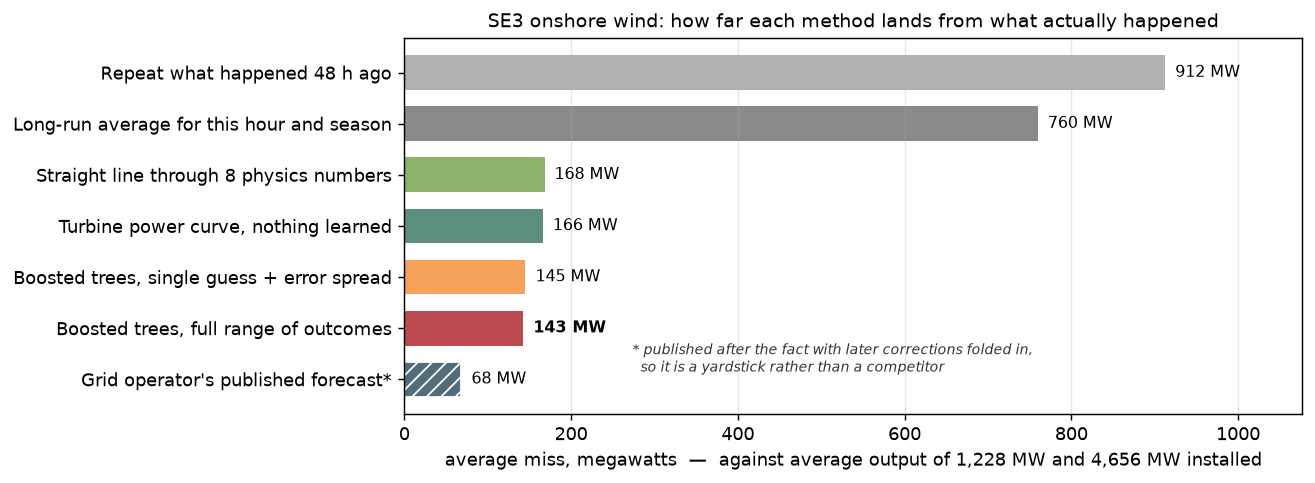
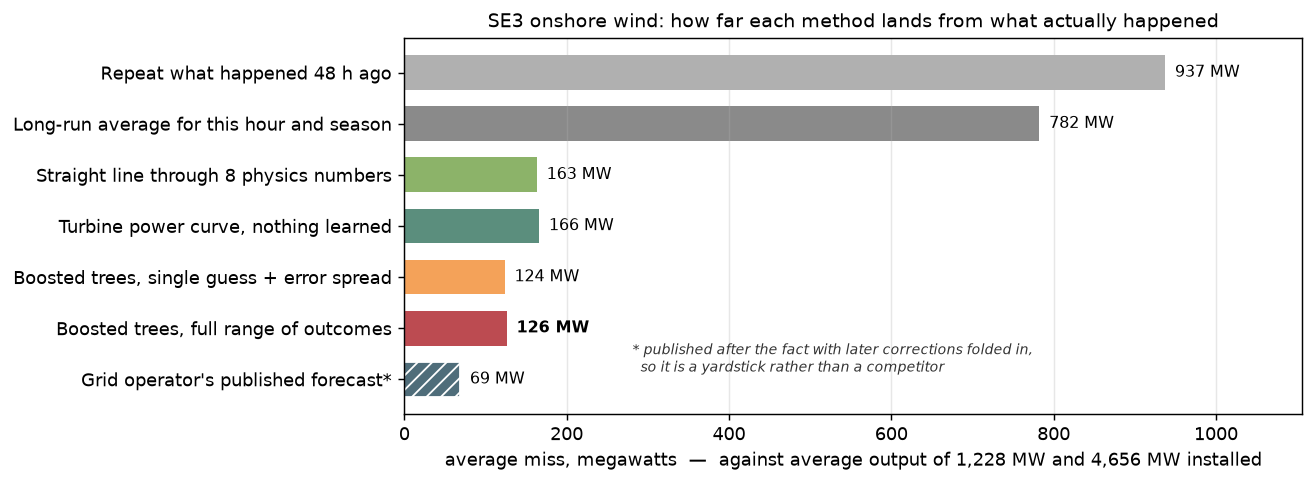
feat(research): ship run-addressed NWP in the live path and the leaderboard
features.run_addressed in base.yaml drives both paths. predict fetches (and so
self-archives) the issue day's MEPS and IFS 00z runs, trains only on days with
every configured source, and refuses to forecast if a live run is missing.
Leaderboard: lightgbm_quantile nMAE 0.0307 -> 0.0271 (143 -> 126 MW), CRPS
0.0232 -> 0.0205. Figures regenerated.

diff --git a/research/src/renewable_forecast/features/assemble.py b/research/src/renewable_forecast/features/assemble.py
@@ -240,15 +240,19 @@ def meps_block(points: pd.DataFrame) -> pd.DataFrame:
 IFS_TRAJECTORY = ("power_curve__ifsrun", "wind_speed_100m__ifsrun")
 
 
-def ifs_block(points: pd.DataFrame) -> pd.DataFrame:
+def ifs_block(
+    points: pd.DataFrame, run_hour: int = ifs_runs.RUN_HOUR_UTC
+) -> pd.DataFrame:
     """Zonal IFS HRES features keyed by the run that produced them.
 
     The physics is the Open-Meteo path's (`wind.per_point`), since the variables are
     the same; only the addressing differs, which is the point of the source.
     """
     raw = ifs_runs.load()
+    if not raw.empty:
+        raw = raw[pd.to_datetime(raw.run_time, utc=True).dt.hour == run_hour]
     if raw.empty:
-        msg = "no IFS runs parsed; run pipelines.pull_ifs_runs first"
+        msg = f"no {run_hour:02d}z IFS runs parsed; run pipelines.pull_ifs_runs first"
         raise RuntimeError(msg)
 
     per_point = wind.add_icing_memory(
@@ -272,8 +276,13 @@ def ifs_block(points: pd.DataFrame) -> pd.DataFrame:
     return pd.concat([zonal, trajectory], axis=1)
 
 
-def attach_ifs(frame: pd.DataFrame, points: pd.DataFrame) -> pd.DataFrame:
-    """Join the IFS run block on the issue day's 00z run, exactly as for MEPS."""
+def attach_ifs(
+    frame: pd.DataFrame, points: pd.DataFrame, *, lagged: bool = True
+) -> pd.DataFrame:
+    """Join the IFS run block on the issue day's 00z run, exactly as for MEPS.
+
+    With `lagged`, also the previous day's 18z run and the change between the two.
+    """
     block = ifs_block(points)
     frame = frame.copy()
     frame[IFS_RUN_COLUMN] = frame.issue_day.dt.tz_localize("UTC") + pd.Timedelta(
@@ -288,6 +297,43 @@ def attach_ifs(frame: pd.DataFrame, points: pd.DataFrame) -> pd.DataFrame:
     missing = merged[f"power_curve{IFS_MARKER}"].isna().sum()
     if missing:
         logger.warning("%s of %s rows have no IFS run coverage", missing, len(merged))
+    if lagged:
+        merged = _attach_lagged_ifs(merged, points)
+    return merged
+
+
+#: Columns taken from the previous day's 18z run. Kept few: they exist to measure how
+#: much the forecast changed between cycles, not to add a second copy of the weather.
+LAGGED_COLUMNS = ("power_curve", "wind_speed_100m")
+LAG_SUFFIX = "_lag6"
+
+
+def _attach_lagged_ifs(frame: pd.DataFrame, points: pd.DataFrame) -> pd.DataFrame:
+    """Join the 18z run from the day before the issue day, and the 00z - 18z change.
+
+    Run-to-run change is a time-lagged ensemble of two members. It carries the IFS
+    marker, so the leakage guard dates it to the 00z run's availability -- later than
+    the 18z run's own, hence conservative.
+    """
+    try:
+        block = ifs_block(points, ifs_runs.LAGGED_RUN_HOUR_UTC)
+    except RuntimeError:
+        logger.warning("no 18z IFS runs parsed; lagged IFS features skipped")
+        return frame
+    keep = {f"{c}{IFS_MARKER}": f"{c}{IFS_MARKER}{LAG_SUFFIX}" for c in LAGGED_COLUMNS}
+    block = block[["run_time", "valid_time", *keep]].rename(columns=keep)
+    lag_run = frame[IFS_RUN_COLUMN] - pd.Timedelta(hours=24 - ifs_runs.LAGGED_RUN_HOUR_UTC)
+    merged = frame.assign(_lag_run=lag_run).merge(
+        block,
+        left_on=["_lag_run", "valid_time"],
+        right_on=["run_time", "valid_time"],
+        how="left",
+    ).drop(columns=["_lag_run", "run_time"])
+    for column in LAGGED_COLUMNS:
+        now = merged[f"{column}{IFS_MARKER}"]
+        before = merged[f"{column}{IFS_MARKER}{LAG_SUFFIX}"]
+        merged[f"{column}{IFS_MARKER}_jump"] = now - before
+        merged[f"{column}{IFS_MARKER}_jump_abs"] = (now - before).abs()
     return merged
 
 
@@ -520,8 +566,47 @@ def _annotate(frame: pd.DataFrame) -> pd.DataFrame:
     return frame
 
 
+#: Run-addressed sources a config may name under `features.run_addressed`, mapped to
+#: the column that says whether a row has that source.
+RUN_SOURCES = {"meps": "power_curve__meps", "ifs_runs": f"power_curve{IFS_MARKER}"}
+
+
+def run_flags(sources: list[str] | tuple[str, ...]) -> dict[str, bool]:
+    """`build` keyword arguments for a list of configured run-addressed sources."""
+    unknown = set(sources) - set(RUN_SOURCES)
+    if unknown:
+        msg = f"unknown run-addressed sources {sorted(unknown)}"
+        raise ValueError(msg)
+    return {"with_meps": "meps" in sources, "with_ifs": "ifs_runs" in sources}
+
+
+def require_run_coverage(
+    frame: pd.DataFrame, sources: list[str] | tuple[str, ...]
+) -> pd.DataFrame:
+    """Keep only delivery days on which every configured run-addressed source exists.
+
+    A model fitted across days with and without a source learns two regimes, and its
+    calibration block -- the most recent quarter of the window -- may fall entirely in
+    the one the live forecast is *not* in. Whole days are kept or dropped, never hours.
+    """
+    columns = [RUN_SOURCES[s] for s in sources if RUN_SOURCES[s] in frame.columns]
+    if not columns:
+        return frame
+    have = frame[columns].notna().all(axis=1)
+    complete = have.groupby(frame.delivery_day).transform("all")
+    dropped = frame.loc[~complete, "delivery_day"].nunique()
+    if dropped:
+        logger.info("%s delivery days lack a run-addressed source; dropped", dropped)
+    return frame[complete].reset_index(drop=True)
+
+
 def build_operational(
-    delivery_day: date, zone: str = "SE3", fuel: str = "wind_onshore"
+    delivery_day: date,
+    zone: str = "SE3",
+    fuel: str = "wind_onshore",
+    *,
+    with_meps: bool = False,
+    with_ifs: bool = False,
 ) -> pd.DataFrame:
     """Design matrix for one future delivery day, with no target column.
 
@@ -557,6 +642,14 @@ def build_operational(
 
     merged = grid.merge(stacked, on=["valid_time", "nwp_offset_days"], how="left")
     merged = pd.concat([merged, calendar(merged)], axis=1)
+    # The same attach functions as `build`, so the live row carries exactly the columns
+    # the model was fitted on.
+    if with_meps:
+        merged = attach_meps(merged, points)
+    if with_ifs:
+        merged = attach_ifs(merged, points)
+    if with_meps and with_ifs:
+        merged = pd.concat([merged, run_spread(merged)], axis=1)
     missing = merged.power_curve_model_mean.isna().sum()
     if missing:
         logger.warning("%s of %s hours have no NWP coverage", missing, len(merged))

diff --git a/research/src/renewable_forecast/pipelines/predict.py b/research/src/renewable_forecast/pipelines/predict.py
@@ -22,7 +22,7 @@ import pandas as pd
 from renewable_forecast import config, experiment, paths, windows
 from renewable_forecast.features import assemble, sites
 from renewable_forecast.models.quantile import QuantileGBM
-from renewable_forecast.sources import openmeteo
+from renewable_forecast.sources import ifs_runs, meps, openmeteo
 
 logger = logging.getLogger(__name__)
 
@@ -35,8 +35,16 @@ VINTAGES = paths.PREDICTIONS / "forecast_vintages.parquet"
 CONTEXT_DAYS = 1
 
 
-def refresh_nwp(delivery_day: date, zone: str = "SE3") -> None:
-    """Pull the newest NWP covering the delivery day, merging into the archive."""
+def refresh_nwp(
+    delivery_day: date, zone: str = "SE3", run_addressed: tuple[str, ...] = ()
+) -> None:
+    """Pull the newest NWP covering the delivery day, merging into the archive.
+
+    Run-addressed sources are fetched for the issue day's 00z run only. Each call also
+    self-archives that run, which matters for MEPS: MET Norway's thredds archive now
+    serves only the current month (checked 2026-09-22), so a run not saved on its day
+    may not be recoverable later.
+    """
     points = sites.build(zone)
     openmeteo.pull(
         points,
@@ -44,6 +52,11 @@ def refresh_nwp(delivery_day: date, zone: str = "SE3") -> None:
         end=delivery_day + timedelta(days=CONTEXT_DAYS + 1),
         merge=True,
     )
+    issue_day = delivery_day - timedelta(days=1)
+    if "meps" in run_addressed:
+        meps.pull(points, issue_day, delivery_day)
+    if "ifs_runs" in run_addressed:
+        ifs_runs.pull(points, issue_day, delivery_day)
 
 
 def run(
@@ -60,17 +73,28 @@ def run(
     cfg = config.load()
     levels = np.array(cfg.task.quantiles)
 
+    run_addressed = tuple(cfg.features.get("run_addressed", ()))
+    flags = assemble.run_flags(run_addressed)
     if refresh:
-        refresh_nwp(delivery_day, zone)
+        refresh_nwp(delivery_day, zone, run_addressed)
 
-    train = assemble.build(zone, fuel)
+    train = assemble.build(zone, fuel, **flags)
     train = train[train.delivery_day < pd.Timestamp(delivery_day)]
+    train = assemble.require_run_coverage(train, run_addressed)
     logger.info(
         "fitting on %s rows up to %s", len(train), train.delivery_day.max().date()
     )
 
     model = QuantileGBM(levels).fit(train)
-    future = assemble.build_operational(delivery_day, zone, fuel)
+    future = assemble.build_operational(delivery_day, zone, fuel, **flags)
+    for source in run_addressed:
+        column = assemble.RUN_SOURCES[source]
+        if future[column].isna().any():
+            # Refuse rather than silently forecast from a model fitted with a source
+            # the live row lacks: the trees would route every hour down their
+            # missing-value branches, which the backtest never scored.
+            msg = f"{source} run for {issue_day} is missing; cannot forecast"
+            raise RuntimeError(msg)
     quantiles = model.predict(future)
 
     out = future[["valid_time", "delivery_day", "lead_hour", "capacity_mw"]].copy()

diff --git a/research/tests/test_assemble.py b/research/tests/test_assemble.py
@@ -69,3 +69,33 @@ def test_calendar_is_cyclical_and_carries_no_raw_datetime() -> None:
     assert out.hour_sin.iloc[0] == pytest.approx(day_later.hour_sin.iloc[0])
     unit_circle = (out.hour_sin**2 + out.hour_cos**2).to_numpy()
     assert unit_circle == pytest.approx(1.0)
+
+
+def test_run_flags_map_config_names_to_build_arguments() -> None:
+    assert assemble.run_flags(["meps", "ifs_runs"]) == {
+        "with_meps": True,
+        "with_ifs": True,
+    }
+    assert assemble.run_flags([]) == {"with_meps": False, "with_ifs": False}
+    with pytest.raises(ValueError, match="unknown"):
+        assemble.run_flags(["icon_eu_runs"])
+
+
+def test_require_run_coverage_drops_whole_days_only() -> None:
+    """A day missing a source for one hour is dropped entirely, never hour by hour."""
+    days = pd.to_datetime(["2025-01-01"] * 3 + ["2025-01-02"] * 3)
+    frame = pd.DataFrame(
+        {
+            "delivery_day": days,
+            "power_curve__meps": [0.1, 0.2, 0.3, 0.1, np.nan, 0.3],
+            "power_curve__ifsrun": 0.2,
+        }
+    )
+    kept = assemble.require_run_coverage(frame, ["meps", "ifs_runs"])
+    assert set(kept.delivery_day) == {pd.Timestamp("2025-01-01")}
+    assert len(kept) == 3
+
+
+def test_require_run_coverage_is_a_no_op_without_sources() -> None:
+    frame = pd.DataFrame({"delivery_day": pd.to_datetime(["2025-01-01"]), "cf": [0.1]})
+    assert assemble.require_run_coverage(frame, []).equals(frame)

diff --git a/research/src/renewable_forecast/pipelines/train.py b/research/src/renewable_forecast/pipelines/train.py
@@ -7,6 +7,7 @@ import pandas as pd
 
 from renewable_forecast import config
 from renewable_forecast.evaluation import baselines
+from renewable_forecast.features import assemble
 from renewable_forecast.models.gbm import PointGBM
 from renewable_forecast.models.quantile import QuantileGBM
 from renewable_forecast.models.sanity import RidgeSanityFloor
@@ -67,8 +68,13 @@ def run(zone: str = "SE3", fuel: str = "wind_onshore") -> pd.DataFrame:
     cfg = config.load()
     levels = np.array(cfg.task.quantiles)
 
-    frame = evaluate.load_design_matrix(zone, fuel)
+    run_addressed = tuple(cfg.features.get("run_addressed", ()))
+    frame = evaluate.load_design_matrix(zone, fuel, **assemble.run_flags(run_addressed))
+    # The holdout is sealed on the full calendar *before* rows are dropped for missing
+    # run-addressed coverage, which is only pulled up to the holdout's start.
     development, _ = evaluate.development_split(frame, cfg)
+    frame = assemble.require_run_coverage(frame, run_addressed)
+    development = development[development.isin(frame.delivery_day.unique())]
 
     history = frame.set_index("valid_time").cf
     tso_mw = baselines.TsoForecast.load(zone, fuel)
